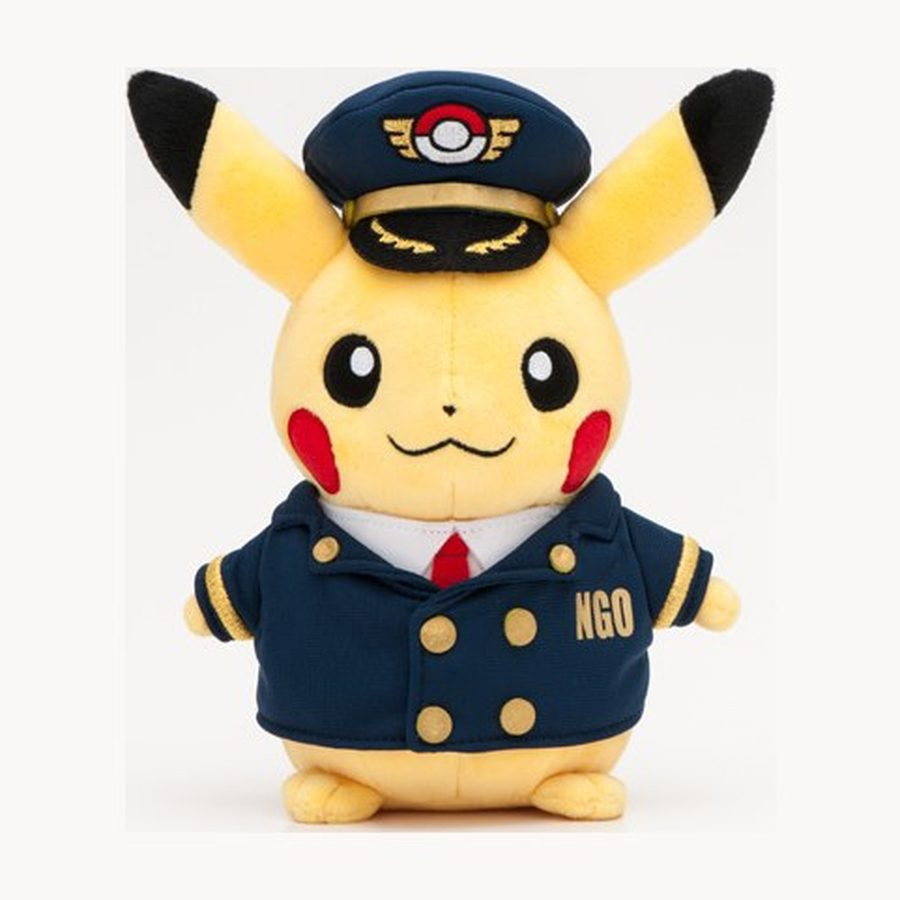
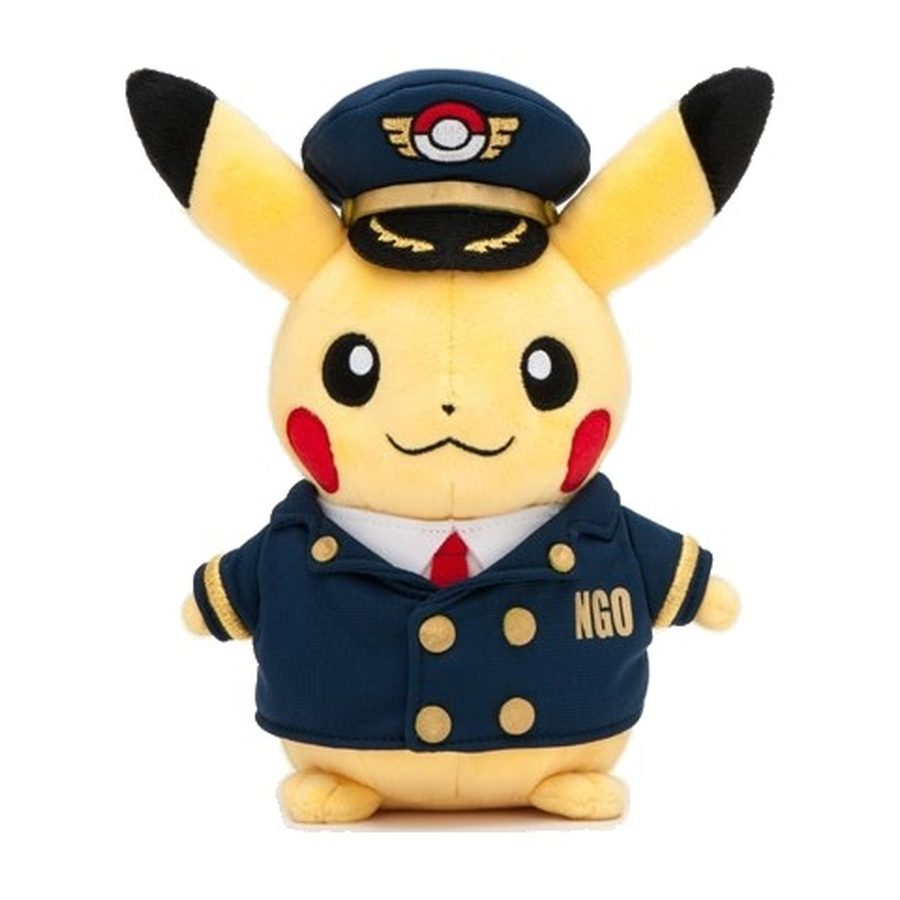
pokemon-center-dolls: white background for NGO pilot/CA official images
Claude-Session: https://claude.ai/code/session_01M6TQq33QhxbbsKCZmYDaPW

diff --git a/pokemon-center-dolls/index.html b/pokemon-center-dolls/index.html
@@ -165,7 +165,7 @@ const TABS=[
 // 每個分頁內各自編號(同原本 1..n)
 const ALL=[];
 TABS.forEach(t=>t.data.forEach((it,i)=>ALL.push(Object.assign({},it,{id:t.id+'-'+(i+1),tab:t.id,n:i+1}))));
-const IMGV='?v=20261121c';
+const IMGV='?v=20261121d';
 const photosOf=c=>[c.box&&'img/box/'+c.box+IMGV,c.img&&'img/'+c.img+IMGV].filter(Boolean);
 CatalogViewer.init({
   load:()=>({items:ALL}),
